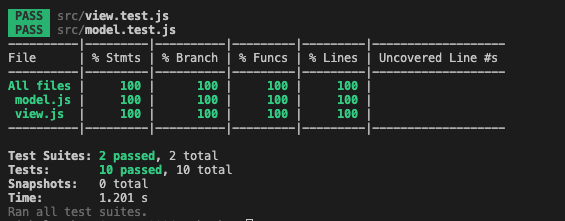
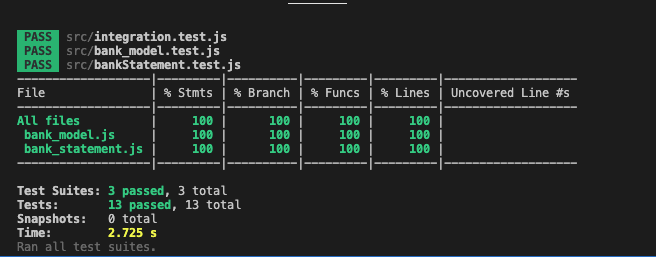
update readme

Changed region(s): [[0.0, 0.0271, 0.9027, 0.6516], [0.0, 0.6787, 1.0, 1.0], [0.4212, 0.0, 0.5416, 0.0271]]

diff --git a/coverage/lcov-report/index.html b/coverage/lcov-report/index.html
@@ -79,7 +79,7 @@
 </tr>
 </thead>
 <tbody><tr>
-	<td class="file high" data-value="model.js"><a href="model.js.html">model.js</a></td>
+	<td class="file high" data-value="bank_model.js"><a href="bank_model.js.html">bank_model.js</a></td>
 	<td data-value="100" class="pic high">
 	<div class="chart"><div class="cover-fill cover-full" style="width: 100%"></div><div class="cover-empty" style="width: 0%"></div></div>
 	</td>
@@ -94,7 +94,7 @@
 	</tr>
 
 <tr>
-	<td class="file high" data-value="view.js"><a href="view.js.html">view.js</a></td>
+	<td class="file high" data-value="bank_statement.js"><a href="bank_statement.js.html">bank_statement.js</a></td>
 	<td data-value="100" class="pic high">
 	<div class="chart"><div class="cover-fill cover-full" style="width: 100%"></div><div class="cover-empty" style="width: 0%"></div></div>
 	</td>
@@ -116,7 +116,7 @@
             <div class='footer quiet pad2 space-top1 center small'>
                 Code coverage generated by
                 <a href="https://istanbul.js.org/" target="_blank" rel="noopener noreferrer">istanbul</a>
-                at 2023-02-20T16:08:52.895Z
+                at 2023-02-22T14:40:21.729Z
             </div>
         <script src="prettify.js"></script>
         <script>

diff --git a/README.md b/README.md
@@ -47,10 +47,29 @@ To run the app and see bank statment type in your terminal.
 ```
 If you want to add more money or withdraw money update app.js
 
-Expected output: 
+## Exapmle:
+ 
+ 
+```javaScript
+//I want to deposit money
+statement.deposit('12/03/2023', 1000)
 
-![statement](statement.png)
+//I want to do withdraw money 
+statement.withdraw('13/03/2023', 200)
+```
+
+
 
 Test coverage:
 
 ![test](test_coverage.png)
+
+To run the test coverage use this command line in the terminal: 
+
+```
+npm test -- --coverage
+```
+
+Output:
+
+![statement](statement.png)
